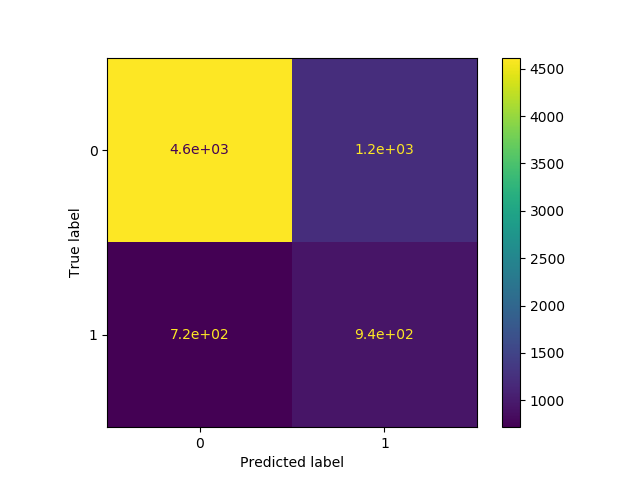
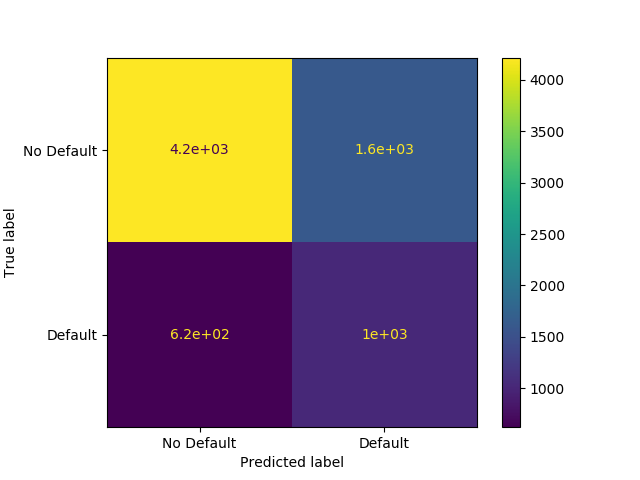
tix 36 and 35

diff --git a/src/analysis.py b/src/analysis.py
@@ -18,12 +18,15 @@ import matplotlib.pyplot as plt
 from sklearn import preprocessing
 import numpy as np
 from sklearn.metrics import accuracy_score, plot_confusion_matrix, confusion_matrix, classification_report, roc_auc_score, roc_curve
-from sklearn.metrics import recall_score, precision_score
+from sklearn.metrics import recall_score, precision_score, recall_score, make_scorer
 from sklearn.model_selection import GridSearchCV
 from imblearn.over_sampling import SMOTE
 from docopt import docopt
 
 opt = docopt(__doc__)
+
+accuracies_output_df = pd.DataFrame({'measurement': [
+                                    "test accuracy", "train accuracy", "test recall", "test precision", "auc score"]})
 
 
 def get_report(X_train, y_train, X_test, y_test, model, output):
@@ -35,7 +38,8 @@ def get_report(X_train, y_train, X_test, y_test, model, output):
     hyperparameters = {
         'C': np.logspace(-4, 4, 20)
     }
-    clf = GridSearchCV(model, hyperparameters, cv=5, verbose=0)
+    clf = GridSearchCV(model, hyperparameters, cv=5,
+                       verbose=0, scoring=make_scorer(recall_score))
     best_model = clf.fit(os_data_X, os_data_y)
 
     # measure accuracies
@@ -46,17 +50,21 @@ def get_report(X_train, y_train, X_test, y_test, model, output):
     test_recall = recall_score(y_test, test_predictions)
     test_precision = precision_score(y_test, test_predictions)
     auc_score = roc_auc_score(y_test, best_model.predict_proba(X_test)[:, 1])
-    accuracies_df = pd.DataFrame(index=['test accuracy', 'train accuracy', 'test recall', 'test precision', 'auc score'], data={
-        'result': [test_accuracy, train_accuracy, test_recall, test_precision, auc_score]
-    })
-    accuracies_df.to_csv(f'./{output}/accuracies.csv')
+    if (output == "results_baseline"):
+        accuracies_output_df['baseline'] = [
+            test_accuracy, train_accuracy, test_recall, test_precision, auc_score]
+    else:
+        accuracies_output_df['alternate model'] = [
+            test_accuracy, train_accuracy, test_recall, test_precision, auc_score]
 
     # plot and report confusion matrix
-    plot_confusion_matrix(best_model, X_test, y_test)
+    plot_confusion_matrix(best_model, X_test, y_test,
+                          display_labels=['No Default', 'Default'])
     report = classification_report(y_test, test_predictions, output_dict=True)
     report_df = pd.DataFrame(report)
     report_df = report_df.rename(columns={'0': 'Non Default',
                                           '1': 'Default'})
+    report_df.index.name = "measurment"
     report_df.to_csv(f'./{output}/classification_report.csv')
     plt.savefig(f'./{output}/confusion_matrix.png')
     plt.clf()
@@ -107,6 +115,13 @@ def main(input, output):
     X_test = X_test.drop(columns_to_drop, axis=1)
     get_report(X_train, y_train, X_test, y_test, logreg, output)
 
+    # write compounded dataframe with results of two get_report calls
+    accuracies_output_df.to_csv(f'./{output}/accuracies.csv', index=False)
+
 
 if __name__ == "__main__":
     main(input=opt["--input"], output=opt["--output"])
+
+
+assert accuracies_output_df.shape == (
+    5, 3), "dimensions of accuracies is wrong"
